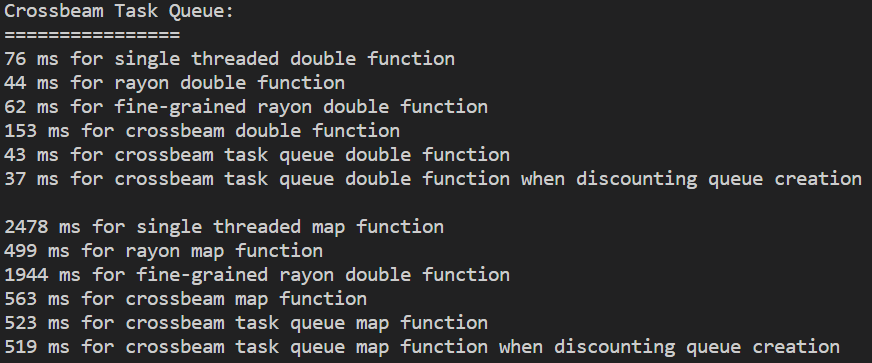
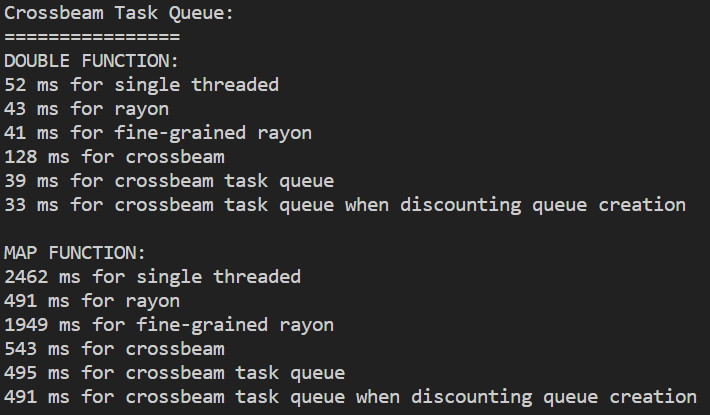
Atomics, but the code doesn't work for the crossbeam storyline. Might come back to it at some point

Changed region(s): [[0.0, 0.0, 0.9915, 0.5152], [0.0, 0.5758, 0.9915, 1.0]]

diff --git a/m2_concurrency/code/atomics/src/main.rs b/m2_concurrency/code/atomics/src/main.rs
@@ -1,4 +1,4 @@
-use std::{time::{Duration, Instant}, sync::{Mutex, Arc}};
+use std::{time::{Duration, Instant}, sync::{Mutex, Arc, atomic::AtomicUsize}, cell::RefCell};
 use itertools::Itertools;
 use rayon::prelude::{ParallelIterator, IntoParallelRefMutIterator, IndexedParallelIterator, IntoParallelRefIterator};
 
@@ -125,8 +125,35 @@ fn crossbeam(element_count: usize, thread_count: usize, chunk_size: usize, itera
         let elapsed_time: Duration = now.elapsed();
         println!("{} ms for crossbeam task queue", elapsed_time.as_millis() as f64);
         println!("{} ms for crossbeam task queue when discounting queue creation", total_time as f64);
-        println!("");
     }
+
+    use atomic_chunks_mut::AtomicChunksMut;
+    {
+        let index: Arc<AtomicUsize> = Arc::new(AtomicUsize::new(0));
+        let chunk_count: usize = zipped_chunks.len();
+        let chunk_handle: Arc<_> = Arc::new(AtomicRefCell::new(zipped_chunks));
+        let now: Instant = Instant::now();
+        for _ in 0..iteration_count {
+            crossbeam::scope(|spawner| {
+                for _ in 0..thread_count {
+                    let index_handle: Arc<AtomicUsize> = Arc::clone(&index);
+                    let chunk_handle: Arc<_> = Arc::clone(&chunk_handle);
+                    spawner.spawn(move |_| {
+                        loop {
+                            let current_index: usize = index_handle.fetch_add(1, std::sync::atomic::Ordering::Relaxed);
+                            if chunk_count <= current_index { return; }
+                            let chunk = { chunk_handle.borrow_mut()[current_index] };
+                            double_function(chunk.0, chunk.1);
+                        }
+                    });
+                }
+            }).unwrap();
+        }
+        let elapsed_time: Duration = now.elapsed();
+        println!("{} ms for crossbeam atomic chunks", elapsed_time.as_millis() as f64);
+    }
+
+    println!("");
 
 
     //
@@ -198,9 +225,30 @@ fn crossbeam(element_count: usize, thread_count: usize, chunk_size: usize, itera
         }
         let elapsed_time: Duration = now.elapsed();
         println!("{} ms for crossbeam task queue", elapsed_time.as_millis() as f64);
-        println!("{} ms for crossbeam task queue when discounting queue creation", total_time as f64);
-        println!("");
+        println!("{} ms for crossbeam task queue when discounting queue creation", total_time as f64);        
     }
+
+    {
+        let mut total_time: u128 = 0;
+        let now: Instant = Instant::now();
+        for _ in 0..iteration_count {
+            let atomic_chunks = AtomicChunksMut::new(zipped_chunks.as_mut_slice(), 1);
+            let iteration_now: Instant = Instant::now();
+            crossbeam::scope(|spawner| {
+                for (_, chunk) in &atomic_chunks {
+                    spawner.spawn(move |_| {
+                        map_function(chunk[0].0, chunk[0].1);
+                    });
+                }
+            }).unwrap();
+            total_time += iteration_now.elapsed().as_millis();
+        }
+        let _elapsed_time: Duration = now.elapsed();
+        println!("{} ms for crossbeam atomic chunks", total_time as f64);
+    }
+
+    println!("");
+
 }
 
 fn main() {

diff --git a/m2_concurrency/s3_atomics.md b/m2_concurrency/s3_atomics.md
@@ -1,3 +1,76 @@
 # 2⃣ Atomics
+Ok, so if a mutex is a horse, an atomic is a pony. It is a lot smaller. This is usually a good thing!
+The smaller a region serialized through synchronization, the more potential concurrency we can have
+and the less likely things will go wrong. So what is an atomic?
+
+Atomic operations are a special kind of very small lock. Atomics are specific to certain data types
+and certain operations because there is sometimes hardware support for them. Now, whenever you see
+the term "hardware support" you should think "SPEED". This means that you can work quite fast using
+atomics, not as fast as not having any synchronization, but relative to the more cumbersome
+mutex, it is quite fast. You can even use atomics in GPU programming. One tricky thing can be if
+your language supports atomics, but your hardware doesn't. In that case the atomic operation will
+be emulated in software which will make your code inexplicably slower.
+
+First off, let's look at the concept of memory ordering. Afterwards I'll describe a few different
+atomic functions you can use, and then finally look at what atomics are like in WGSL. Anyways,
+memory ordering. Various hardware platforms have different types of support for atomics. If we for
+example had a counter variable, it could for example be used to sum an array, we could make sure that
+the sum was correct while still being manipulated and accessed in a multithreaded setting by placing
+the counter inside an atomic. The nature of how the counter is incremented is then dictated by the
+memory ordering.
+
+The function that we use for incrementing this summation counter can be called with
+different orderings. We'll look at three different types, sequentially consistent, acquire-release
+and relaxed. With sequentially consistent ordering, we can have certain guarantees in terms of which
+thread is getting to read and write to the atomic variable in which order. This is likely to be
+the most expensive ordering, but also likely to be the most correct.
+
+Acquire-release is a paired ordering. It is especially good for implementing locks with atomics.
+If you used a bool or an integer (you could store which number thread currently holds the lock),
+inside an atomic you could implement a lock for a critical section which could be acquired
+and released. Having this implemented with atomics should ensure that there can only ever
+be one thread holding the lock.
+
+Relaxed ordering is the cheapest and has no guarantees about ordering. It is especially good for
+the case of summation. We don't care about which order was used to sum an array of numbers, just
+get it done. It is the easiest to comprehend, and to begin with I would recommend that you only
+use atomics in a situation where a relaxed ordering is good enough. Otherwise we get into mutex
+levels of complexity and you're gonna have a bad time.
+
+In terms of types you will be limited to integers and bools. Which types are available in Rust
+can be found [here](https://doc.rust-lang.org/std/sync/atomic/). Go to
+[the page](https://doc.rust-lang.org/std/sync/atomic/struct.AtomicU32.html)
+for ```AtomicU32``` and see which functions are available. There's some load, store and swap
+operations, followed by some compare/exchange operations and then a bunch of fetch and something
+operations. Try and read through them. In practice you would share the atomic variable between threads
+by wrapping it with an ```Arc<Atomic...>``` and cloning the ```Arc```.
+
+WGSL, the language used to make GPU programs in this guide, only supports ```atomic<T>``` where ```T```
+is either ```i32``` or ```u32```. All atomic functions have ```relaxed``` memory ordering. It's really
+good for things like reduction operations. Once each warp has a local result computed, they can
+compare results, or add, across warps through a global atomic variable. You can check out which
+functions are available, which is a bit more limited compared to what was available in Rust,
+[here](https://www.w3.org/TR/WGSL/#atomic-builtin-functions).
 
 ## 3⃣ Lock Free Algorithms
+Lock free algorithms are a type of algorithms where there is a minimal amount of synchronization. Think of it as
+atomic, yes!, mutex/lock, no!, atomic lock, no! This requires a fair amount of thought, but a very simple version
+could for example to implement a queue of chunks this way. If we have an iterator or an index pointing to an array
+of data chunks, we can use an atomic operation to increment the index or the iterator and get the former piece of
+data. This is lock-free. There might some waiting time if 8 threads are all trying to get more data to crunch at
+the same time, but no locks have to be acquired. But this way of using atomics to acquire a new piece of data
+from an array is made possible with all these functions which don't just swap, compare or fetch, but also
+do one more thing. We can increment and fetch to get our new data chunk!
+
+## 3⃣ Crossbeam and Atomics
+Back to the storyline! Hmm, can't do what I thought I could in Rust with this, so I might get back
+to continuing the crossbeam stuff once I figure out how to solve it with atomics.
+
+## 5⃣ Further Reading
+If you would like to learn more about atomics I can recommend you read about atomics and reordering in the
+[Rustonomicon](https://doc.rust-lang.org/nomicon/atomics.html) or in the
+the atomics chapter in Jon Gjengset's book [Rust for Rustaceans](https://nostarch.com/rust-rustaceans)
+which is even better.
+
+To read more about lock-free algorithms, go [here](https://en.wikipedia.org/wiki/Non-blocking_algorithm),
+and [here](https://www.cs.cmu.edu/~410-s05/lectures/L31_LockFree.pdf).

diff --git a/m2_concurrency/s2_locks.md b/m2_concurrency/s2_locks.md
@@ -98,13 +98,15 @@ showcase the effect of this I also added a timing specifically without the extra
 queue every iteration, which the other solutions aren't burdened with. Next up, we create a scope, which
 you should be familiar with by now. Inside the scope we give each launched thread a reference to the
 queue. Once the thread has spawned, each thread will continuously try to get another piece of data to
-work on, by acquiring the lock. If the iterator is empty the thread will jump out of the loop.
+work on, by acquiring the lock. Note that once the thread has acquired the lock and returned the next element
+from the iterator, the lock is released by the scope ending.
+If the iterator is empty the thread will jump out of the loop.
 Note that I added another parameter to launch the benchmark, thus decoupling chunk size from thread count.
 
 Now let's look at a benchmark.
 
 <figure markdown>
-![Image](../figures/locks_task_queue.png){ width="600" }
+![Image](../figures/locks_task_queue.png){ width="800" }
 <figcaption>
 Crossbeam with a mutex around a task queue. Element count was 10.000.000, iteration count was 10, thread count was 8
 and chunk size was element count / (thread count * 32).
